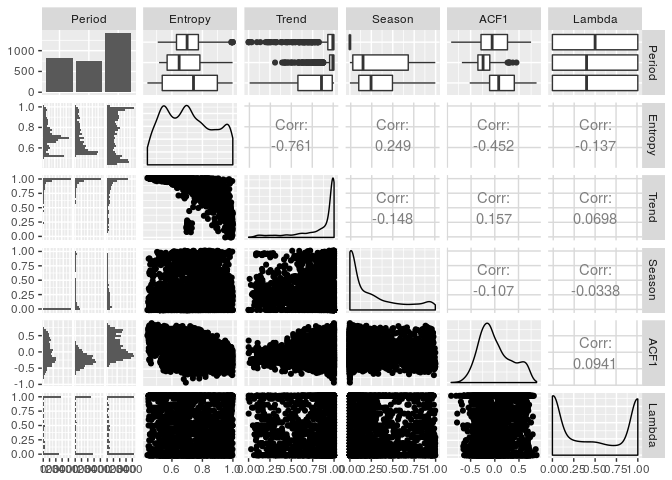
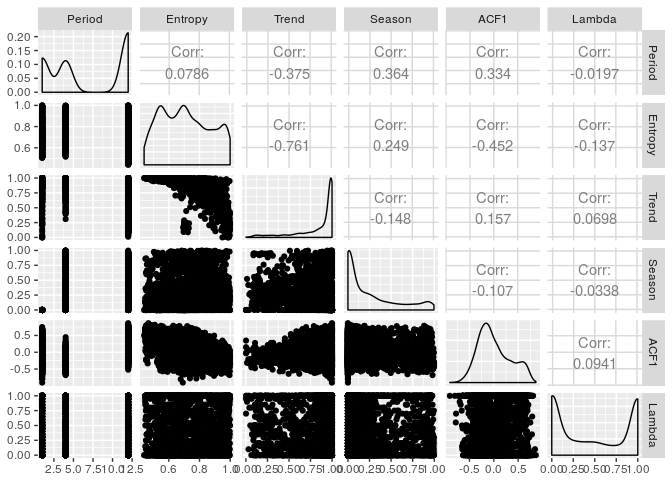
IJF paper figures 1 and 2 now matched

diff --git a/README.md b/README.md
@@ -82,8 +82,7 @@ khs <- bind_cols(
     Trend = trend,
     Season = season,
     ACF1 = acfremainder,
-    Lambda = BoxCox.lambda) %>%
-  mutate(Period = as.factor(Period))
+    Lambda = BoxCox.lambda)
 ```
 
 ``` r
@@ -96,9 +95,9 @@ GGally::ggpairs(khs)
 ``` r
 
 # 2-d Feature space (Top of Fig 2)
-prcomp(khs[,-1], scale=TRUE)$x %>%
+prcomp(khs, scale=TRUE)$x %>%
   as_tibble() %>%
-  bind_cols(Period=khs$Period) %>%
+  bind_cols(Period=as.factor(khs$Period)) %>%
   ggplot(aes(x=PC1, y=PC2)) +
     geom_point(aes(col=Period))
 ```
